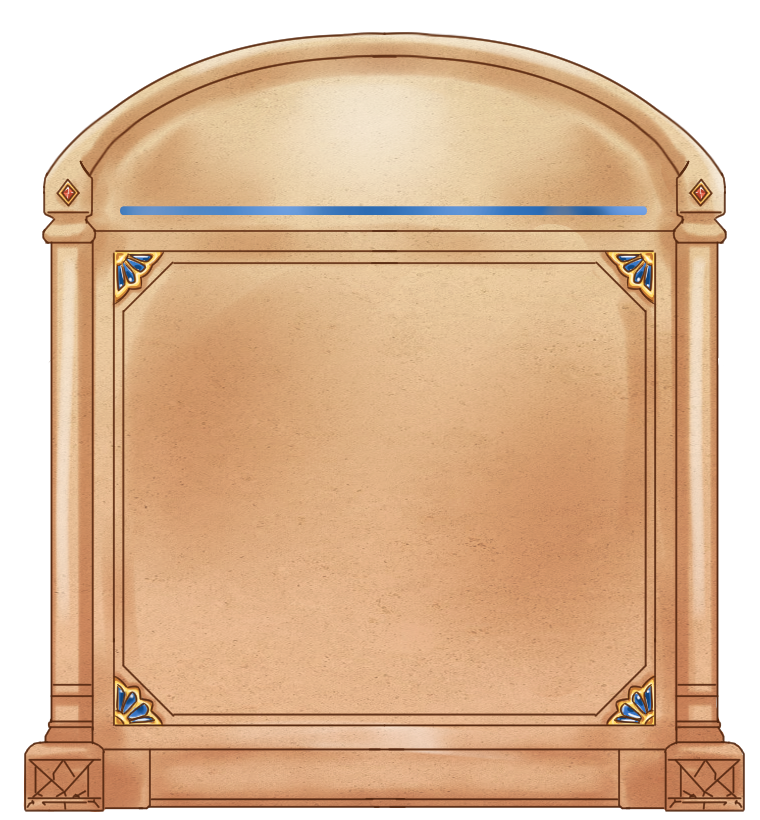
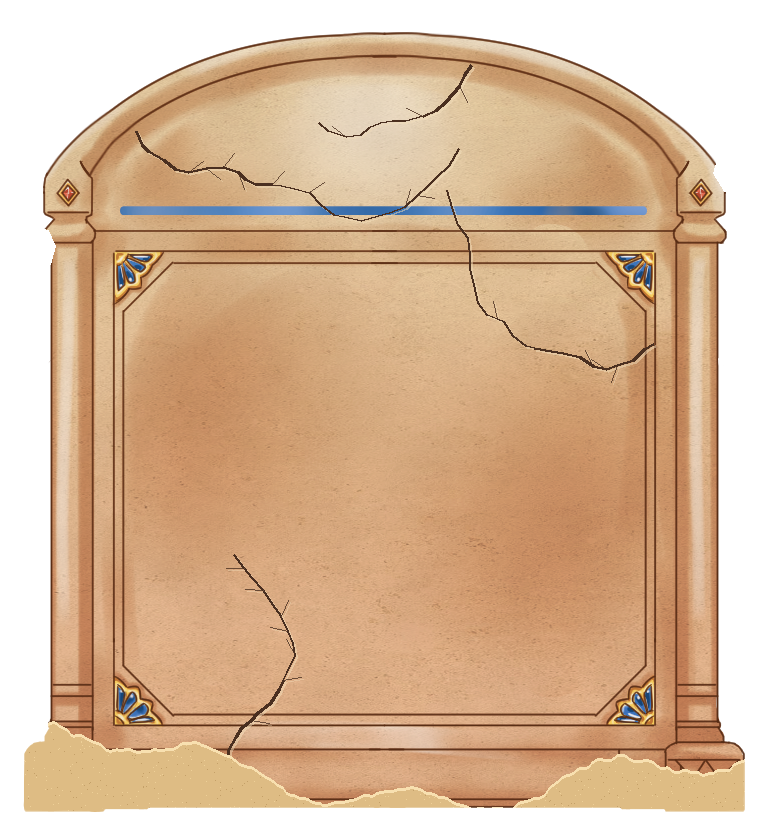
[Fix] 비석: 낡은 비석 + 굵은 상형문자 + 해독 후 문장으로 보기
- 비석 판 그림에 금, 얼룩, 깨진 모서리, 밑에 쌓인 모래 (모래 밑에서 나온 비석인데 너무 깔끔했음)
- GlyphFactory: 가는 1px 낙서 -> 실제 상형문자를 본뜬 16가지(앙크, 우자트 눈, 물, 태양, 새 등)를 2px 굵은 선으로. 모든 방 공통
- SteleDecodeUI: 해독이 끝나면 띄엄띄엄한 글자 칸 대신 문장으로 모아서 보여줌 (긴 비석 가독성)

diff --git a/Assets/Scripts/UI/Stele/GlyphFactory.cs b/Assets/Scripts/UI/Stele/GlyphFactory.cs
@@ -1,13 +1,16 @@
 using System.Collections.Generic;
 using UnityEngine;
 
-// 상형문자 느낌의 작은 그림을 코드로 만듦 (폰트에 이집트 문자가 없어서 그림으로 대신)
+// 상형문자 그림을 코드로 만듦 (폰트에 이집트 문자가 없어서 그림으로 대신)
 // - Get(번호): 번호마다 항상 같은 모양 (16x16 도트, 한 번 만든 건 재사용)
-// - 세로선, 가로선, 동그라미, 물결, 새 부리, 점, 삼각형 중 2~3개를 섞어서 만듦
+// [수정] 예전: 가는 1px 선 몇 개를 아무렇게나 섞음 -> 너무 얇고 낙서 같았음
+//        지금: 실제 상형문자를 본뜬 16가지(앙크, 우자트 눈, 물, 태양, 갈대, 입, 새, 빵, 바구니, 제드 기둥,
+//              뿔뱀, 깃털, 팔, 별, 풍뎅이, 집)를 2px 굵은 선으로 그림. 번호에 따라 좌우가 뒤집히기도 함
 // 아트가 오면 SteleDecodeUI의 Glyph Sprites 칸에 그림을 넣으면 이건 안 씀
 public static class GlyphFactory
 {
     private const int Size = 16;
+    private const int Kinds = 16;
     private static readonly Dictionary<int, Sprite> cache = new Dictionary<int, Sprite>();
     private static readonly Color32 Ink = new Color32(255, 255, 255, 255);
 
@@ -17,8 +20,10 @@ public static class GlyphFactory
 
         var pixels = new Color32[Size * Size];
         var rng = new System.Random(seed * 7919 + 13);
-        int parts = rng.Next(2, 4);
-        for (int i = 0; i < parts; i++) DrawPart(pixels, rng.Next(0, 7), rng);
+        int kind = rng.Next(0, Kinds);
+        if (kind < 8) DrawA(pixels, kind);
+        else DrawB(pixels, kind);
+        if (rng.Next(2) == 0) Mirror(pixels);
 
         var tex = new Texture2D(Size, Size, TextureFormat.RGBA32, false) { filterMode = FilterMode.Point, wrapMode = TextureWrapMode.Clamp };
         tex.SetPixels32(pixels);
@@ -28,26 +33,50 @@ public static class GlyphFactory
         return sprite;
     }
 
-    private static void DrawPart(Color32[] p, int kind, System.Random rng)
+    // y는 아래가 0. 선은 전부 2px 굵기
+    private static void DrawA(Color32[] p, int kind)
     {
-        int a = rng.Next(3, 12), b = rng.Next(3, 12);
         switch (kind)
         {
-            case 0: Line(p, a, 2, a, 13); break;                    // 세로선
-            case 1: Line(p, 2, b, 13, b); break;                    // 가로선
-            case 2: Ring(p, a, b, rng.Next(2, 4)); break;           // 동그라미 (눈, 태양)
-            case 3: Wave(p, b); break;                              // 물결 (물)
-            case 4: Line(p, 3, 12, a, 4); Line(p, a, 4, 12, 7); break; // 새 부리, 꺾임
-            case 5: Dot(p, a, b); Dot(p, a + 2, b); break;          // 점 두 개
-            default: Line(p, 3, 12, 8, 4); Line(p, 8, 4, 13, 12); Line(p, 3, 12, 13, 12); break; // 삼각형
+            case 0: Ring(p, 8, 11, 3, 2); Line(p, 8, 1, 8, 8); Line(p, 4, 7, 11, 7); break;                              // 앙크 (생명)
+            case 1: Ring(p, 8, 9, 5, 3); Fill(p, 7, 8, 9, 10); Line(p, 2, 13, 13, 13); Line(p, 8, 6, 6, 2); Line(p, 10, 6, 13, 2); break; // 우자트 눈
+            case 2: Zig(p, 11); Zig(p, 7); Zig(p, 3); break;                                                             // 물
+            case 3: Ring(p, 8, 8, 6, 6); Fill(p, 7, 7, 9, 9); break;                                                     // 태양
+            case 4: Line(p, 5, 1, 5, 14); Line(p, 5, 14, 10, 10); Line(p, 10, 10, 10, 4); Line(p, 10, 4, 5, 1); break;   // 갈대 잎
+            case 5: Ring(p, 8, 8, 6, 3); break;                                                                          // 입
+            case 6: Ring(p, 7, 7, 4, 3); Fill(p, 10, 10, 13, 13); Line(p, 13, 11, 15, 11); Line(p, 6, 4, 6, 1); Line(p, 9, 4, 9, 1); Line(p, 3, 8, 1, 6); break; // 새
+            default: Line(p, 2, 3, 13, 3); Line(p, 2, 3, 2, 6); Line(p, 13, 3, 13, 6); Line(p, 2, 6, 5, 10); Line(p, 5, 10, 10, 10); Line(p, 10, 10, 13, 6); break; // 빵
+        }
+    }
+
+    private static void DrawB(Color32[] p, int kind)
+    {
+        switch (kind)
+        {
+            case 8: Line(p, 2, 9, 4, 4); Line(p, 4, 4, 11, 4); Line(p, 11, 4, 13, 9); Line(p, 2, 9, 13, 9); Line(p, 6, 9, 9, 13); break; // 바구니
+            case 9: Line(p, 8, 1, 8, 13); Line(p, 4, 13, 11, 13); Line(p, 4, 10, 11, 10); Line(p, 4, 7, 11, 7); Line(p, 5, 1, 10, 1); break; // 제드 기둥
+            case 10: Line(p, 1, 5, 5, 8); Line(p, 5, 8, 9, 5); Line(p, 9, 5, 13, 8); Fill(p, 12, 8, 14, 10); Line(p, 12, 11, 11, 14); Line(p, 14, 11, 14, 14); break; // 뿔뱀
+            case 11: Line(p, 5, 1, 5, 9); Line(p, 5, 9, 8, 14); Line(p, 8, 14, 11, 10); Line(p, 11, 10, 9, 5); Line(p, 9, 5, 5, 3); break; // 깃털 (마아트)
+            case 12: Line(p, 1, 6, 11, 6); Line(p, 11, 6, 14, 9); Line(p, 11, 6, 14, 6); Line(p, 11, 6, 13, 3); Line(p, 1, 6, 1, 3); break; // 팔
+            case 13: Line(p, 8, 1, 8, 14); Line(p, 2, 8, 13, 8); Line(p, 3, 3, 12, 12); Line(p, 3, 12, 12, 3); break;      // 별
+            case 14: Ring(p, 8, 7, 4, 5); Line(p, 8, 2, 8, 11); Line(p, 3, 9, 1, 12); Line(p, 12, 9, 14, 12); Line(p, 3, 5, 1, 2); Line(p, 12, 5, 14, 2); break; // 풍뎅이
+            default: Line(p, 2, 2, 2, 12); Line(p, 2, 12, 13, 12); Line(p, 13, 12, 13, 2); Line(p, 2, 2, 6, 2); Line(p, 9, 2, 13, 2); break; // 집
         }
     }
 
     // ================= 그리기 도우미 =================
+    // 점 하나 = 2x2 (굵은 선)
     private static void Dot(Color32[] p, int x, int y)
     {
-        if (x < 0 || y < 0 || x >= Size || y >= Size) return;
-        p[y * Size + x] = Ink;
+        for (int dy = 0; dy < 2; dy++)
+        {
+            for (int dx = 0; dx < 2; dx++)
+            {
+                int px = x + dx, py = y + dy;
+                if (px < 0 || py < 0 || px >= Size || py >= Size) continue;
+                p[py * Size + px] = Ink;
+            }
+        }
     }
 
     private static void Line(Color32[] p, int x0, int y0, int x1, int y1)
@@ -60,17 +89,42 @@ public static class GlyphFactory
         }
     }
 
-    private static void Ring(Color32[] p, int cx, int cy, int r)
+    // 타원 테두리 (가로 반지름 rx, 세로 반지름 ry)
+    private static void Ring(Color32[] p, int cx, int cy, int rx, int ry)
     {
-        for (int i = 0; i < 24; i++)
+        for (int i = 0; i < 40; i++)
         {
-            float ang = i / 24f * Mathf.PI * 2f;
-            Dot(p, cx + Mathf.RoundToInt(Mathf.Cos(ang) * r), cy + Mathf.RoundToInt(Mathf.Sin(ang) * r));
+            float ang = i / 40f * Mathf.PI * 2f;
+            Dot(p, cx + Mathf.RoundToInt(Mathf.Cos(ang) * rx) - 1, cy + Mathf.RoundToInt(Mathf.Sin(ang) * ry) - 1);
         }
     }
 
-    private static void Wave(Color32[] p, int y)
+    private static void Fill(Color32[] p, int x0, int y0, int x1, int y1)
     {
-        for (int x = 2; x < 14; x++) Dot(p, x, y + ((x / 2) % 2 == 0 ? 0 : 1));
+        for (int y = y0; y <= y1; y++)
+            for (int x = x0; x <= x1; x++) Dot(p, x - 1, y - 1);
+    }
+
+    // 지그재그 물결 한 줄
+    private static void Zig(Color32[] p, int y)
+    {
+        for (int x = 1; x < 13; x += 4)
+        {
+            Line(p, x, y, x + 2, y + 2);
+            Line(p, x + 2, y + 2, x + 4, y);
+        }
+    }
+
+    private static void Mirror(Color32[] p)
+    {
+        for (int y = 0; y < Size; y++)
+        {
+            for (int x = 0; x < Size / 2; x++)
+            {
+                Color32 a = p[y * Size + x];
+                p[y * Size + x] = p[y * Size + Size - 1 - x];
+                p[y * Size + Size - 1 - x] = a;
+            }
+        }
     }
 }

diff --git a/Assets/Scripts/UI/Stele/SteleDecodeUI.cs b/Assets/Scripts/UI/Stele/SteleDecodeUI.cs
@@ -63,6 +63,7 @@ public class SteleDecodeUI : MonoBehaviour
         yield return ui.DecodeLoop();
         ui.lens.gameObject.SetActive(false);
         ui.noteText.text = "해독 완료";
+        yield return ui.ShowParagraph(lines); // [추가] 한 글자씩 띄엄띄엄이라 읽기 힘들었음 -> 다 풀면 문장으로 모아 보여줌
         yield return ui.WaitClose("E: 닫기");
     }
 
@@ -71,6 +72,7 @@ public class SteleDecodeUI : MonoBehaviour
         SteleDecodeUI ui = Instance;
         if (!ui.Open(title, lines, false, "")) yield break;
         foreach (SteleCell cell in ui.cells) cell.ForceDecoded();
+        yield return ui.ShowParagraph(lines);
         yield return ui.WaitClose("E: 닫기");
     }
 
@@ -143,6 +145,27 @@ public class SteleDecodeUI : MonoBehaviour
             if (cell.Decoded) decoded++;
         }
         return decoded;
+    }
+
+    // [추가] 해독이 끝나면 글자 칸을 지우고, 같은 내용을 띄어쓰기가 살아 있는 문장으로 다시 보여줌 (문장마다 줄바꿈)
+    private IEnumerator ShowParagraph(string[] lines)
+    {
+        if (lines == null || lines.Length == 0) yield break;
+        foreach (Transform child in textArea) Destroy(child.gameObject);
+        cells.Clear();
+        string body = string.Join(" ", lines).Replace(". ", ".\n").Replace("? ", "?\n").Replace("! ", "!\n");
+        int size = body.Length <= 40 ? 40 : (body.Length <= 90 ? 34 : 28);
+        Text text = UIBuild.Text(textArea, "Paragraph", font, size, Vector2.zero, textBox - new Vector2(30f, 20f), Hex("#5A3410"));
+        text.fontStyle = FontStyle.Bold;
+        text.lineSpacing = 1.35f;
+        text.text = body;
+        for (float t = 0f; t < 0.45f; t += Time.unscaledDeltaTime)
+        {
+            Color c = text.color;
+            text.color = new Color(c.r, c.g, c.b, t / 0.45f);
+            yield return null;
+        }
+        text.color = Hex("#5A3410");
     }
 
     private IEnumerator WaitClose(string hint)
